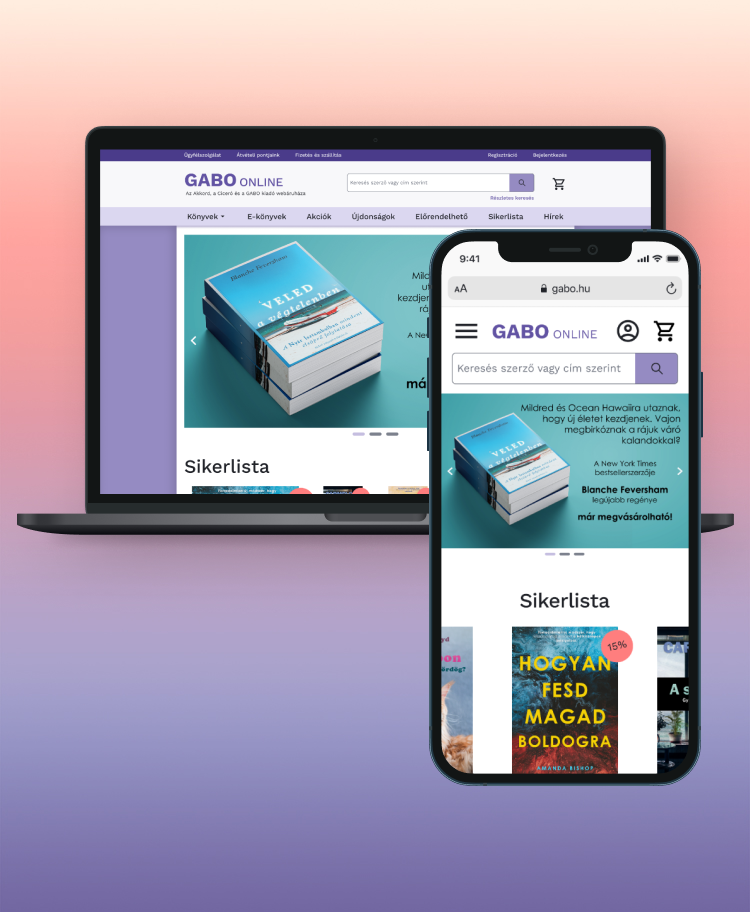
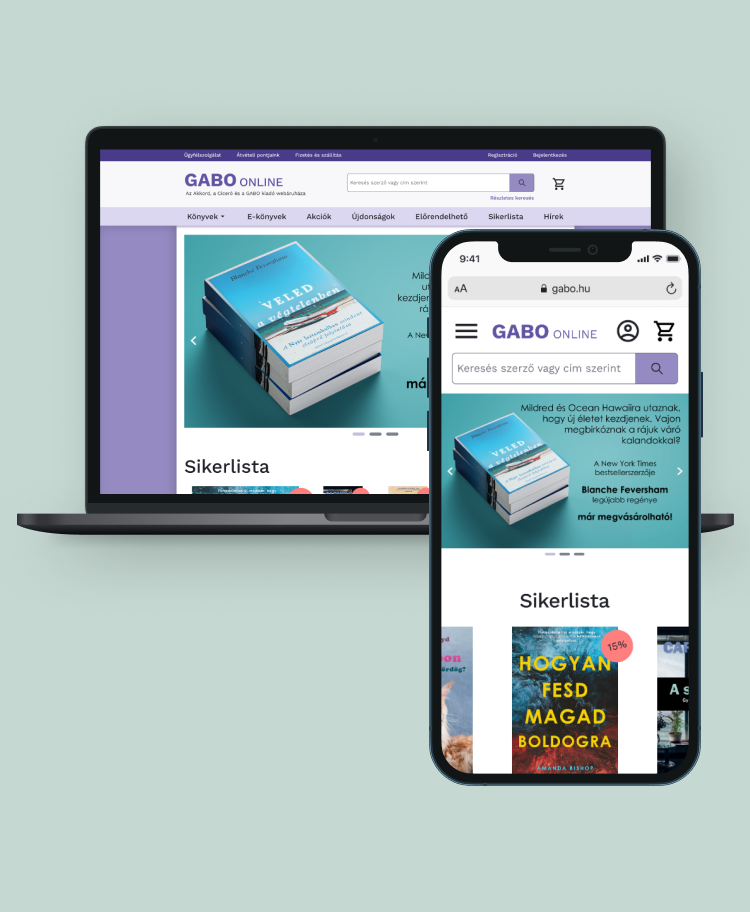
fix case study images and colors

diff --git a/src/Index.vue b/src/Index.vue
@@ -1,52 +1,54 @@
 <template>
   <!-- Hero -->
 
-  <div class="sm:mt-72 mt-12 text-left px-4 xl:px-32 md:px-6">
+  <div class="h-auto px-4 xl:px-32 md:px-6 mb-72 text-left sm:mt-72 mt-12">
     <h1 class="sm:h1-bold h2-bold text-gray-900 mb-11">
       Hi, I'm Ádám Sárpátki,
     </h1>
-  </div>
-  
-  <div
-    class="
-      h-auto
-      px-4
-      xl:px-32
-      md:px-6
-      mb-72 
-      text-left
-    "
-  >
-    <div class="">
-      <div class="fix-blur xl:w-1/3 w-1/2 float-right pt-0 pr-0 sm:pb-5 sm:pl-5 pb-1 pl-1 [shape-outside:circle()]">
-      <img
-        class="rounded-full border-solid border-gray-900 border-2"
-        src="/src/assets/me_2022_medium_v2.jpg"
-        alt="An image of Adam Sarpatki standing in front of a white wall and smiling."
-      />
+
+
+      <div
+        class="
+          fix-blur
+          xl:w-1/3
+          sm:w-1/2
+          w-full
+          sm:float-right
+          pt-0
+          pr-0
+          sm:pb-5 sm:pl-5
+          pb-11
+          pl-1
+          [shape-outside:circle()]
+        "
+      >
+        <img
+          class="rounded-full border-solid border-gray-900 border-2"
+          src="/src/assets/me_2022_medium_v2.jpg"
+          alt="An image of Adam Sarpatki standing in front of a white wall and smiling."
+        />
       </div>
       <div class="">
-      <p class="xl:h4-regular subheading-regular text-gray-900 mb-8">
-        an enthusiastic UX designer based in Budapest, Hungary, with a
-        professional background in library and information science, and
-        translation.
-      </p>
-      <p class="xl:h4-regular subheading-regular text-gray-900 mb-8">
-        I want to solve real problems in a friendly, diverse and inclusive
-        environment, with incredible people.
-      </p>
-      <p class="xl:h4-regular subheading-regular text-gray-900 mb-8">
-        Are you interested in working together?
-      </p>
+        <p class="xl:h4-regular subheading-regular text-gray-900 mb-8">
+          an enthusiastic UX designer based in Budapest, Hungary, with a
+          professional background in library and information science, and
+          translation.
+        </p>
+        <p class="xl:h4-regular subheading-regular text-gray-900 mb-8">
+          I want to solve real problems in a friendly, diverse and inclusive
+          environment, with incredible people.
+        </p>
+        <p class="xl:h4-regular subheading-regular text-gray-900 mb-8">
+          Are you interested in working together?
+        </p>
       </div>
       <div class="flex justify-center sm:justify-start">
-      <router-link to="/contact"
-        ><button class="btn mt-4">Let's Talk</button></router-link
-      >
+        <router-link to="/contact"
+          ><button class="btn mt-4">Let's Talk</button></router-link
+        >
       </div>
     </div>
-    
-  </div>
+
 
   <CaseStudies />
   <Dribbble />

diff --git a/src/components/RulebookHeader.vue b/src/components/RulebookHeader.vue
@@ -1,11 +1,11 @@
 <template>
   <div class="sm:relative flex flex-col justify-center">
       <picture class="order-2 sm:order-none">
-        <source media="(max-width: 639px)" srcset="/src/assets/study-header-small@2x.png">
-        <source media="(max-width: 767px)" srcset="/src/assets/study-header-mobile@2x.png">
-        <source media="(max-width: 1279)" srcset="/src/assets/study-header-tablet@2x.png">
-        <source media="(max-width: 1439px)" srcset="/src/assets/study-header-1280@2x.png">
-        <img class="w-full" src="/src/assets/study-header-desktop@2x.png" alt="The header image of the D&D Rulebook project">
+        <source media="(max-width: 639px)" srcset="/src/assets/study-header-rulebook-small@2x.png">
+        <source media="(max-width: 767px)" srcset="/src/assets/study-header-rulebook-mobile@2x@2x.png">
+        <source media="(max-width: 1279px)" srcset="/src/assets/study-header-rulebook-tablet@2x.png">
+        <source media="(max-width: 1439px)" srcset="/src/assets/study-header-rulebook-1280@2x.png">
+        <img class="w-full" src="/src/assets/study-header-rulebook-desktop@2x.png" alt="The header image of the D&D Rulebook project">
       </picture>
 
     <div class="order-1 sm:order-none sm:absolute xl:bottom-16 xl:left-32 sm:bottom-6 sm:left-4 md:left-4 xl:w-full md:w-3/5 sm:w-3/6 md:pr-0 px-4 pt-6 sm:text-left bg-rulebook sm:bg-transparent">

diff --git a/src/components/RulebookDefine.vue b/src/components/RulebookDefine.vue
@@ -18,7 +18,7 @@
         <p class="paragraph-mobile-small xl:paragraph-regular">
           Based on this, I have asked myself the question:
         </p>
-        <div class="mt-3 md:px-12 sm:px-8 md:mx-12 px-4 py-4 bg-gray-300 rounded-md text-center">
+        <div class="mt-3 md:px-12 sm:px-8 md:mx-12 px-4 py-4 bg-gray-200 rounded-md text-center">
           <p class="subheading-bold">
             How might we provide information about game mechanics for the
             players of Dungeons and Dragons 5th edition, so they can find

diff --git a/src/components/GaboDeliver.vue b/src/components/GaboDeliver.vue
@@ -113,7 +113,7 @@
           md:mx-12
           px-4
           h-48
-          bg-gray-300
+          bg-gray-200
           rounded-md
         "
       >
@@ -318,7 +318,7 @@
           md:mx-12
           px-4
           h-48
-          bg-gray-300
+          bg-gray-200
           rounded-md
         "
       >
@@ -491,7 +491,7 @@
           md:mx-12
           px-4
           h-48
-          bg-gray-300
+          bg-gray-200
           rounded-md
         "
       >

diff --git a/src/components/GaboConclusion.vue b/src/components/GaboConclusion.vue
@@ -1,5 +1,5 @@
 <template>
-  <div class="study-grid bg-gray-300 h-40 mb-12">
+  <div class="study-grid bg-gray-200 h-40 mb-12">
     <h2 class="col-span-full self-center h2-bold text-gray-900">Conclusion</h2>
   </div>
 
@@ -70,7 +70,7 @@
 
   <WorkTogether />
 
-  <div class="study-grid bg-gray-300 h-40 mb-12">
+  <div class="study-grid bg-gray-200 h-40 mb-12">
     <h2 class="col-span-full self-center h2-bold text-gray-900">Resources</h2>
   </div>
 

diff --git a/src/components/RulebookConclusion.vue b/src/components/RulebookConclusion.vue
@@ -1,5 +1,5 @@
 <template>
-    <div class="study-grid bg-gray-300 h-40 mb-12">
+    <div class="study-grid bg-gray-200 h-40 mb-12">
     <h2 class="col-span-full self-center h2-bold text-gray-900">Conclusion</h2>
   </div>
 
@@ -30,7 +30,7 @@
 
 <WorkTogether/>
 
-<div class="study-grid bg-gray-300 h-40 mb-12">
+<div class="study-grid bg-gray-200 h-40 mb-12">
     <h2 class="col-span-full self-center h2-bold text-gray-900">Resources</h2>
 </div>
 

diff --git a/src/components/RulebookDiscover.vue b/src/components/RulebookDiscover.vue
@@ -103,7 +103,7 @@
 
   <div class="study-grid h-auto mb-12">
     <table class="bg-gray-50 col-span-full border-collapse">
-      <thead class="bg-gray-300 border text-center h-16">
+      <thead class="bg-gray-200 border text-center h-16">
         <tr>
           <th></th>
           <th>Started playing...</th>

diff --git a/src/Contact.vue b/src/Contact.vue
@@ -33,7 +33,7 @@
     </div>
     <div class="fix-blur flex flex-col items-center md:basis-1/3 basis-1/4 sm:mt-72 mt-12">
       <img
-        class="h-64 "
+        class="h-64"
         src="/src/assets/corgi.png"
         alt="An image of Adam Sarpatki standing in front of a white wall and smiling."
       />

diff --git a/tailwind.config.js b/tailwind.config.js
@@ -127,8 +127,8 @@ module.exports = {
 
       backgroundColor: theme => ({
         ...theme('colors'),
-        'rulebook': '#489fb5',
-        'gabo': '#ffeddf',
+        'rulebook': '#a3d0d9',
+        'gabo': '#C5D8D1',
       }),
 
       lineHeight: {

diff --git a/src/components/GaboBackground.vue b/src/components/GaboBackground.vue
@@ -1,5 +1,5 @@
 <template>
-  <div class="study-grid bg-gray-300 h-40">
+  <div class="study-grid bg-gray-200 h-40">
     <h2 class="col-span-full px-4 md:px-0 self-center h2-bold text-gray-900">
       The Background
     </h2>

diff --git a/src/components/GaboProcess.vue b/src/components/GaboProcess.vue
@@ -1,5 +1,5 @@
 <template>
-    <div class="study-grid bg-gray-300 h-40">
+    <div class="study-grid bg-gray-200 h-40">
     <h2 class="col-span-full self-center h2-bold text-gray-900">
       The Design Process
     </h2>

diff --git a/src/components/RulebookProcess.vue b/src/components/RulebookProcess.vue
@@ -1,5 +1,5 @@
 <template>
-    <div class="study-grid bg-gray-300 h-40">
+    <div class="study-grid bg-gray-200 h-40">
     <h2 class="col-span-full self-center h2-bold text-gray-900">
       The Design Process
     </h2>
